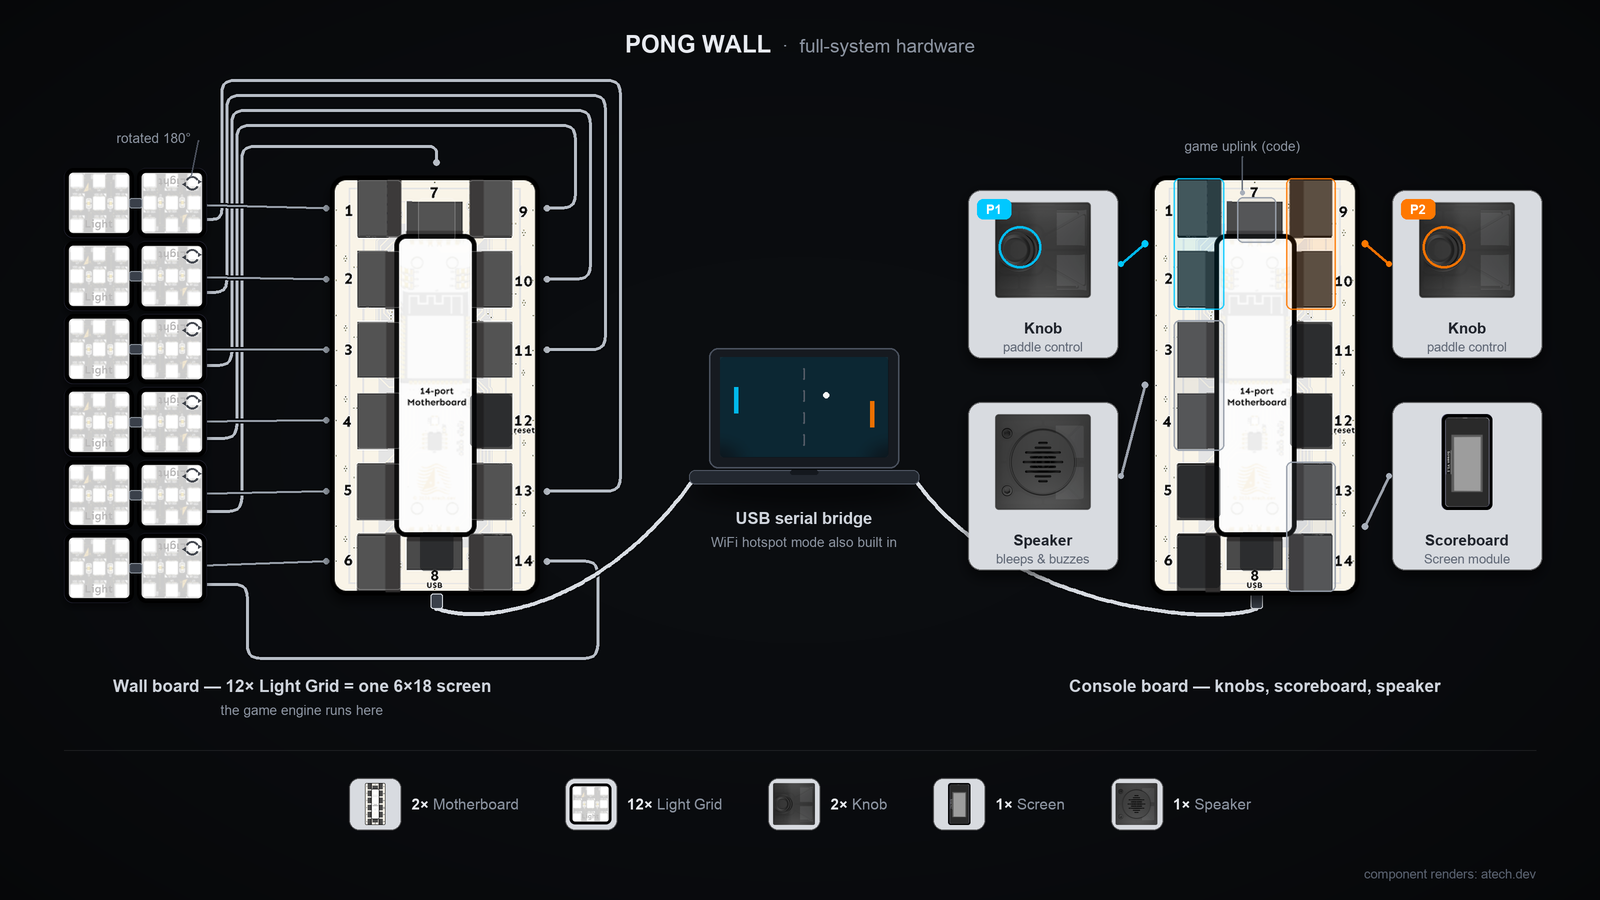
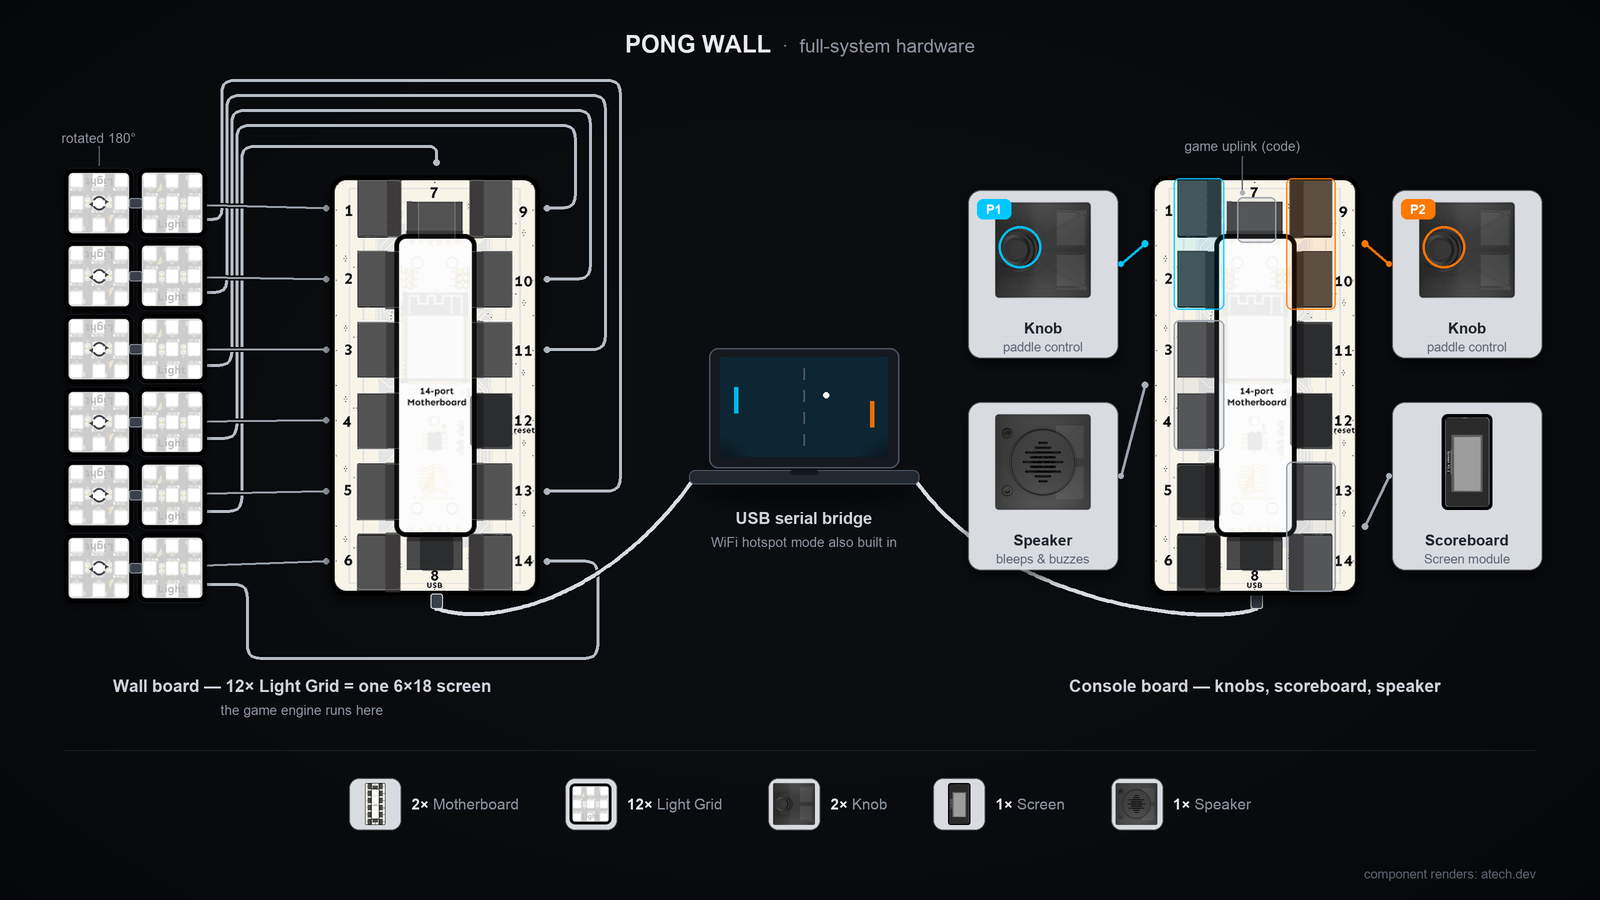
Fix wiring diagram: left column is the rotated one, not right
The diagram (render_wiring.py) hardcoded the RIGHT tile column as 'rotated 180°',
but the calibrated TILE_MAP has the LEFT column (ports 1-6) at rot 2 (mounted 180°)
— matching the real build. draw_wall now derives the rotation from game.TILE_MAP
(rotate + icon where rot==2) so the diagram tracks the calibrated map and can't drift;
the label/leader positions are derived from the tile grid instead of hand-placed
pixel offsets. Regenerated system-diagram.png.

Also corrected the stale 'right column flipped' narrative in pong_config.h's TILE_MAP
comment and in docs/PLAN.md + docs/HANDOVER.md to the calibrated reality (left column
= rot 180, right = upright). game.TILE_MAP unchanged; drift guard green.

diff --git a/tools/gifgen/render_wiring.py b/tools/gifgen/render_wiring.py
@@ -408,12 +408,14 @@ def draw_wall(
 
     canvas.alpha_composite(wires)
 
-    # tiles (right column rotated 180) and the board cover the hidden wire runs
+    # tiles: rotate each per its TILE_MAP entry (rot 2 = mounted 180°); the board
+    # then covers the hidden wire runs
+    rot_at = {(r, c): rot for r, c, rot in game.TILE_MAP}
     for row in range(6):
         for col in range(2):
             x = GRID_X + col * (TILE + SEAM)
             y = GRID_Y + row * (TILE + SEAM)
-            img = tile_img.rotate(180) if col == 1 else tile_img
+            img = tile_img.rotate(180) if rot_at[(row, col)] == 2 else tile_img
             paste_shadowed(canvas, img, x, y, blur=7, dy=4, alpha=120)
     paste_shadowed(canvas, board_img, bx, by)
 
@@ -428,19 +430,15 @@ def draw_wall(
             width=1.6,
         )
 
-    # rotated-tile icons + shared annotation
+    # rotate icon on each rotated tile, plus a label above the column
+    rot_col = next((c for _, c, rot in game.TILE_MAP if rot == 2), 1)
+    col_cx = GRID_X + rot_col * (TILE + SEAM) + TILE / 2  # rotated column's center x
     for row in range(6):
-        rotate_icon(
-            d_over, GRID_X + TILE + SEAM + TILE - 15, GRID_Y + row * (TILE + SEAM) + 15
-        )
-    ann_x = GRID_X + TILE + SEAM + TILE / 2 - 18
-    ann_w = text(d_over, ann_x, 138, "rotated 180°", 13.5, MUTED, anchor="mm")
-    polyline(
-        d_over,
-        [(ann_x + ann_w / 2 + 7, 141), (GRID_R - 16, GRID_Y + 8)],
-        1.4,
-        FAINT + (210,),
-    )
+        rotate_icon(d_over, col_cx, GRID_Y + row * (TILE + SEAM) + TILE / 2)
+    label_y = GRID_Y - 30  # label sits in the margin above the wall
+    text(d_over, col_cx, label_y, "rotated 180°", 13.5, MUTED, anchor="mm")
+    # leader down from just under the label to just above the tiles
+    polyline(d_over, [(col_cx, label_y + 9), (col_cx, GRID_Y - 3)], 1.4, FAINT + (210,))
 
     # port treatments
     for p in game.PORT_ORDER:

diff --git a/modules/pong_screen/pong_config.h b/modules/pong_screen/pong_config.h
@@ -80,14 +80,11 @@ struct TileCfg {
 
 // Index order = WIRING order = port order 1,2,3,4,5,6,7,9,10,11,13,14
 // (matches the pointer array in modules/pong_screen/module.yaml setup template).
-// DEFAULT from known build: ports 1-6 = left column top->bottom, rot 0;
-// ports 7,9,10,11,13,14 = right column top->bottom, mounted flipped = rot 2 (180 deg).
-// CONFIRM/EDIT ON HARDWARE DAY via calibration mode (see docs/PLAN.md):
-//   tileRow/tileCol = where the tile's identity color sits on the wall;
-//   rot from the WHITE corner pixel: TL=0, TR=1, BR=2, BL=3.
-// CALIBRATED on hardware 2026-07-04 ("cyan" variant of the convention finder):
-// positions = ports 1-6 left col top->bottom, 7..14 right col top->bottom;
-// rots = base reading +1 quarter-turn; chip chain serpentine (compositor.cpp).
+// CALIBRATED build (hardware 2026-07-04, "cyan" convention-finder pass): ports 1-6 =
+// LEFT column top->bottom, mounted 180 deg -> rot 2; ports 7,9,10,11,13,14 = RIGHT column
+// top->bottom, upright -> rot 0. Chip chain is serpentine (compositor.cpp).
+// To re-derive on new hardware, run calibration mode (docs/PLAN.md): tileRow/tileCol =
+// where each tile's identity color sits; rot from the WHITE corner pixel (TL=0,TR=1,BR=2,BL=3).
 constexpr TileCfg TILE_MAP[NUM_TILES] = {
     {0, 0, 2},  // port 1
     {1, 0, 2},  // port 2

diff --git a/docs/PLAN.md b/docs/PLAN.md
@@ -8,7 +8,7 @@
 
 atech.dev hackathon: two-player Pong across two Atech 14-Port boards (ESP32-S3) over WiFi.
 
-- **Screen board** — **12× Light Grid** (`neopixel`, 3×3 WS2812): ports 1–6 plugged directly (tile column 0), ports 7,9,10,11,13,14 mounted **flipped 180°** alongside (tile column 1) → **6 px × 18 px wall** (108 px, 2 tile-cols × 6 tile-rows). Authoritative game engine + **WiFi SoftAP** + UDP server. All 12 usable ports occupied.
+- **Screen board** — **12× Light Grid** (`neopixel`, 3×3 WS2812): ports 1–6 plugged directly (tile column 0, mounted **flipped 180°**), ports 7,9,10,11,13,14 cabled alongside (tile column 1, upright) → **6 px × 18 px wall** (108 px, 2 tile-cols × 6 tile-rows). Authoritative game engine + **WiFi SoftAP** + UDP server. All 12 usable ports occupied.
 - **Controller board** ("console") — knob P1 (1,2), knob P2 (9,10)*, I2S **speaker** (4,5), 160×80 **TFT** (13,14), virtual `pong_control` module on port 7 (free: 3, 6, 11). WiFi STA + UDP client; hosts audio/score/ring presenters.
 
 \* User recalled "8,9" but port_8 = reserved USB-C; (9,10) is the valid neighbor pair (alternative [10,11]; [13,14] taken by TFT). One-line yaml fix on hardware day; `atech validate`/`monitor` reveals instantly.
@@ -171,7 +171,7 @@ ENGLISH_GAIN 0.85, VY_MIN 0.55, PADDLE_GRACE 0.35 (edge-graze = extreme angle = 
 
 **READY_CHECK wall UI:** not-held → player's paddle row pulses their color (0.5 Hz, FB 70↔255); holding → row fills column-by-column left→right (6 cols = 6 steps of the 500 ms) with bright cursor at fill edge; locked → one white full-row blink then steady; both → countdown.
 
-**Compositor:** `TILE_MAP[12] {tileRow 0-5, tileCol 0-1, rot}` in pong_config.h, index = port order (1,2,3,4,5,6,7,9,10,11,13,14). **Default from known geometry: ports 1-6 → col 0 rows 0-5 rot 0; ports 7,9,10,11,13,14 → col 1 rows 0-5 rot 180°.** LED local (lr,lc) on a tile rotated CW by θ displays framebuffer region cell: θ=0 → (lr,lc) · 90° → (lc, 2−lr) · 180° → (2−lr, 2−lc) · 270° → (2−lc, lr). Startup LUT `lut[12][9] = fbByteOffset`; runtime = 108 array reads + per-tile 27-B memcmp vs cache → show() only dirty tiles (rally touches 1–3; full repaint 12 tiles ≈ 7 ms, fits the 20 ms tick) + force repaint on state change + **2 s heartbeat repaint** (WS2812s glitch pixels from electrical noise at parties; heartbeat heals invisibly).
+**Compositor:** `TILE_MAP[12] {tileRow 0-5, tileCol 0-1, rot}` in pong_config.h, index = port order (1,2,3,4,5,6,7,9,10,11,13,14). **Calibrated build: ports 1-6 → col 0 rows 0-5 rot 180°; ports 7,9,10,11,13,14 → col 1 rows 0-5 rot 0.** LED local (lr,lc) on a tile rotated CW by θ displays framebuffer region cell: θ=0 → (lr,lc) · 90° → (lc, 2−lr) · 180° → (2−lr, 2−lc) · 270° → (2−lc, lr). Startup LUT `lut[12][9] = fbByteOffset`; runtime = 108 array reads + per-tile 27-B memcmp vs cache → show() only dirty tiles (rally touches 1–3; full repaint 12 tiles ≈ 7 ms, fits the 20 ms tick) + force repaint on state change + **2 s heartbeat repaint** (WS2812s glitch pixels from electrical noise at parties; heartbeat heals invisibly).
 
 **Calibration (~10 min, one photo):** identify mode runs during never-linked LINK_WAIT: tile i (port order) solid identity color — 6 hues (R,G,B,Y,M,C @180) reused per column (columns spatially unambiguous) — with **local pixel 0 = WHITE** (rotation corner: physically TL=0°, TR=90°, BR=180°, BL=270°) and **local pixel 1 = dim gray** (must sit edge-adjacent to white along the tile's local top row — guards against diagonal misreads); white pixel blinks (tile-index+1) times every 3 s as a wiring-order double check. Fill TILE_MAP (legend printed as comment above it) → rebuild → **verify mode**: full-wall glyph asymmetric on both axes (an "F" in the top half + a down-arrow in the bottom half, P2 color top row / P1 color bottom row) — any scrambled 3×3 patch pinpoints the one wrong entry. Doubles as the **RMT go/no-go for 24 strip objects**.
 
@@ -230,7 +230,7 @@ Boot frame "PONG / connecting" drawn in begin() (drawing on boot fine; sound not
 
 ## Tuning table (pong_config.h — one file = whole game feel)
 
-TICK_HZ 50 · GRID 6×18 · NUM_TILES 12 · PADDLE_W 2 (3 = casual mode) · PADDLE_GRACE 0.35 · DETENTS_PER_CELL 2.0 · KNOB_SIGN {+1,−1} · BALL_SPEED_START 7.0 · SPEEDUP_PER_HIT 1.07 · BALL_SPEED_MAX 22 · ENGLISH_GAIN 0.85 · VY_MIN 0.55 · SERVE_U {0.35,0.70} · WIN_SCORE 3 · READY_HOLD_MS 500 · COUNTDOWN_MS 1500 (3 ticks à 500) · POINT_FLASH_MS 1200 · WIN_CELEBRATION_MS 3000 · IDLE_TO_ATTRACT_MS 30000 · STALE_HOLD_RESET_MS 1000 · palette above · RING_BRIGHT 40/20/60-120 · WALL_BRIGHTNESS 40 (≤51) · TILE_MAP default col0 rot0 / col1 rot180 · HEARTBEAT_REPAINT_S 2 · flags: NET_DOTS on · WALL_BLIP on · RALLY_PULSE off · ATTRACT_CHIRP off · SPEED_TINT_BALL off · CALIBRATION_MODE off.
+TICK_HZ 50 · GRID 6×18 · NUM_TILES 12 · PADDLE_W 2 (3 = casual mode) · PADDLE_GRACE 0.35 · DETENTS_PER_CELL 2.0 · KNOB_SIGN {+1,−1} · BALL_SPEED_START 7.0 · SPEEDUP_PER_HIT 1.07 · BALL_SPEED_MAX 22 · ENGLISH_GAIN 0.85 · VY_MIN 0.55 · SERVE_U {0.35,0.70} · WIN_SCORE 3 · READY_HOLD_MS 500 · COUNTDOWN_MS 1500 (3 ticks à 500) · POINT_FLASH_MS 1200 · WIN_CELEBRATION_MS 3000 · IDLE_TO_ATTRACT_MS 30000 · STALE_HOLD_RESET_MS 1000 · palette above · RING_BRIGHT 40/20/60-120 · WALL_BRIGHTNESS 40 (≤51) · TILE_MAP col0 rot180 / col1 rot0 · HEARTBEAT_REPAINT_S 2 · flags: NET_DOTS on · WALL_BLIP on · RALLY_PULSE off · ATTRACT_CHIRP off · SPEED_TINT_BALL off · CALIBRATION_MODE off.
 
 ## Desktop simulator (sim/main.cpp — tune everything today, zero hardware)
 

diff --git a/docs/HANDOVER.md b/docs/HANDOVER.md
@@ -9,7 +9,7 @@ Two-player Pong on two **Atech 14-Port boards** (ESP32-S3):
 
 | Board | Modules (port) | Role |
 |---|---|---|
-| **Screen** | 12× `neopixel` Light Grid: ports 1-6 direct + 7,9,10,11,13,14 mounted **flipped 180°** → 6×18 px wall | Game engine (C++ state machine), WiFi **SoftAP** `atech-pong`, UDP server :47420 |
+| **Screen** | 12× `neopixel` Light Grid: ports 1-6 direct (**flipped 180°**) + 7,9,10,11,13,14 cabled (upright) → 6×18 px wall | Game engine (C++ state machine), WiFi **SoftAP** `atech-pong`, UDP server :47420 |
 | **Controller** | knob_p1 (1,2) · knob_p2 (9,10)¹ · speaker (4,5) · TFT 160×80 (13,14) · virtual `pong_control` (7) | WiFi STA, sends inputs 50 Hz, receives feedback 20 Hz → drives speaker jingles, TFT score, knob rings |
 
 ¹ User remembered "8,9" — impossible (port 8 = USB-C, reserved). Default (9,10); if wrong on hardware day it's one line in `controller/project.yaml` ([10,11] is the other valid option).
@@ -72,7 +72,7 @@ Where verified: SDK source at `.venv/lib/python3.11/site-packages/atech/` — `c
 ## Hardware-day checklist (in order — kills the biggest unknowns first)
 
 1. Flash **screen** → identify pattern (auto in LINK_WAIT before first link): each tile = solid hue + WHITE corner pixel (rotation: TL=0° TR=90° BR=180° BL=270°) + gray neighbor pixel (misread guard); white blinks tile-index+1 times. **This is also the RMT go/no-go for 24 strip objects** (12 tiles × 2 lines). Take ONE photo = the calibration record.
-2. Fill `TILE_MAP[12]` in `pong_config.h` (expected: ports 1-6 col 0 rot 0; ports 7,9,10,11,13,14 col 1 rot 180) → rebuild → verify glyph ("F" + arrow) → attract rally shows any residual error as a discontinuity.
+2. Fill `TILE_MAP[12]` in `pong_config.h` (calibrated: ports 1-6 col 0 rot 180; ports 7,9,10,11,13,14 col 1 rot 0) → rebuild → verify glyph ("F" + arrow) → attract rally shows any residual error as a discontinuity.
 3. `uv run atech check` on screen → 13 modules ok (SoftAP proven via health check).
 4. Laptop joins `atech-pong` (pass `pong4242`) → `python tools/fake_controller.py` → play with keyboard: full server proven with zero controller hardware.
 5. Flash **controller** → TFT "SEARCHING" + red-blink rings immediately; `atech monitor` shows knob detents/presses (fixes knob-2 port if needed); `atech check` (speaker/TFT init).